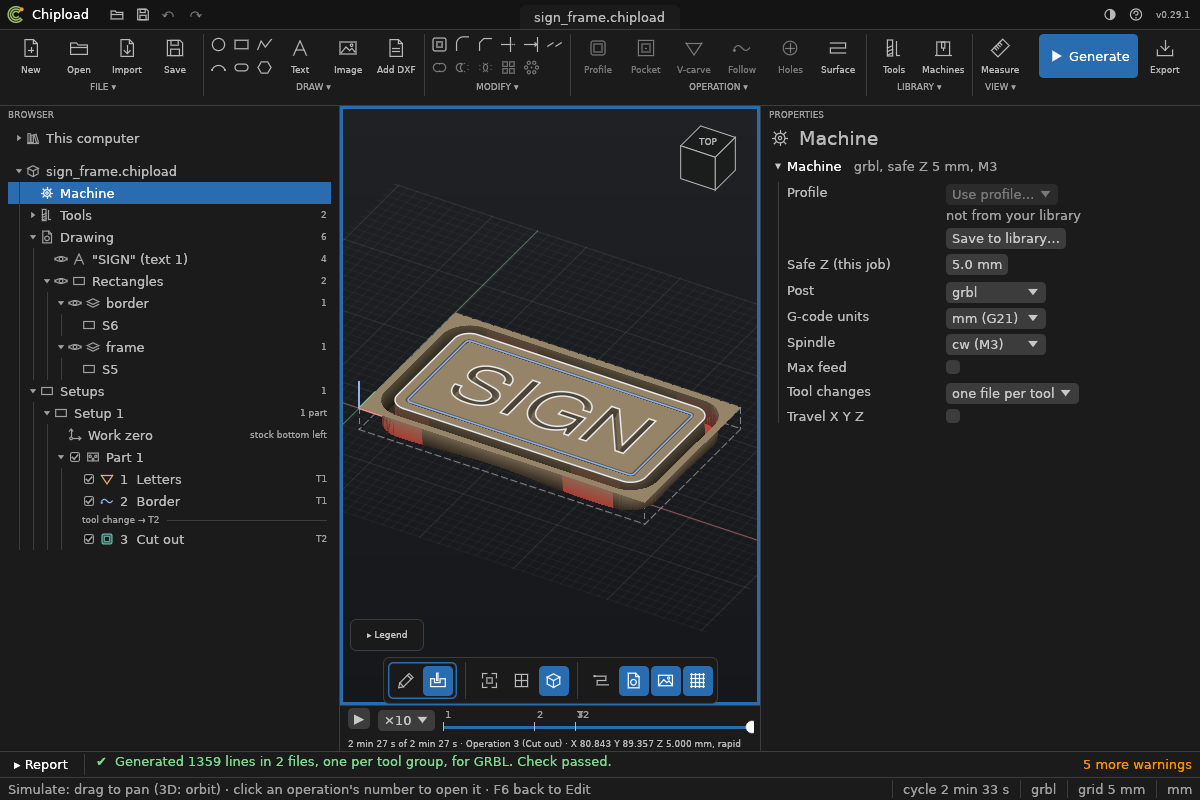
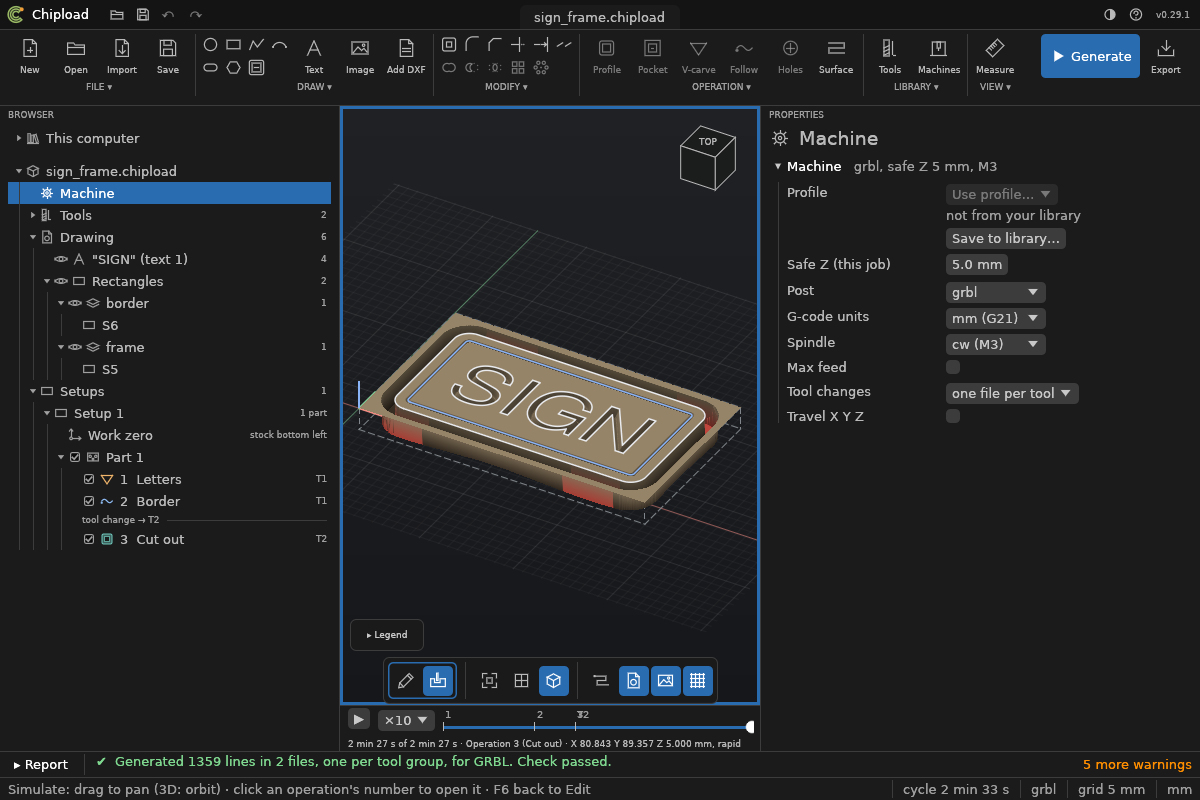
Frame button in the ribbon's DRAW group
The user: the frame was only in the DRAW ▾ menu. A small Frame button
now follows the shape tools, four to a row. To keep the button names in
English at the default window width, the large buttons' narrowest width
goes from 46 to 44 points (the ribbon had 13 points to spare; now 20).
Guide: signs and window pages; the frame and sign pictures renewed.

diff --git a/crates/chipload-gui/src/app/header.rs b/crates/chipload-gui/src/app/header.rs
@@ -12,7 +12,7 @@ use crate::icons::{self, Icon};
 /// The top bar's height, points.
 pub(super) const TOP_BAR_HEIGHT: f32 = 30.0;
 /// A ribbon button's height, and its narrowest width, points.
-const RIBBON_BUTTON: (f32, f32) = (44.0, 46.0);
+const RIBBON_BUTTON: (f32, f32) = (44.0, 44.0);
 /// Where the ribbon keeps whether its large buttons show their icons alone (they don't fit
 /// with their names).
 const RIBBON_COMPACT: &str = "ribbon-compact";
@@ -399,7 +399,10 @@ impl ChiploadApp {
                 ];
                 ui.vertical(|ui| {
                     ui.spacing_mut().item_spacing = vec2(2.0, 2.0);
-                    for row in tools.chunks(3) {
+                    // Four a row, the frame last (docs/specs/shape-library.md §5): a small
+                    // button, so the ribbon keeps its names at the default width.
+                    let rows = tools.chunks(4).count();
+                    for (k, row) in tools.chunks(4).enumerate() {
                         ui.horizontal(|ui| {
                             for (tool, icon, label, hint, action) in row {
                                 let active = app.sketch.as_ref().is_some_and(|s| s.tool == *tool);
@@ -409,6 +412,17 @@ impl ChiploadApp {
                                     .clicked()
                                 {
                                     app.start_drawing(*tool);
+                                }
+                            }
+                            if k + 1 == rows {
+                                let label = t!(ui, "header-frame");
+                                let framing = app.modify == Some(super::modify::ModifyTool::Frame);
+                                let hint = format!("{label}: {}", t!(ui, "header-frame-hover"));
+                                if small_ribbon_button(ui, Icon::Frame, &label, can_draw, framing)
+                                    .on_hover_text(hint)
+                                    .clicked()
+                                {
+                                    app.start_frame();
                                 }
                             }
                         });

diff --git a/crates/chipload-gui/src/icons.rs b/crates/chipload-gui/src/icons.rs
@@ -21,6 +21,8 @@ pub enum Icon {
     Layer,
     Image,
     Text,
+    /// A sign's frame: a rounded outline, a border line, words.
+    Frame,
     Circle,
     Rectangle,
     Polyline,
@@ -164,6 +166,11 @@ pub fn paint(painter: &Painter, rect: Rect, icon: Icon, color: Color32) {
         Icon::Text => {
             pen.poly(&[(0.18, 0.86), (0.5, 0.14), (0.82, 0.86)]);
             pen.poly(&[(0.31, 0.6), (0.69, 0.6)]);
+        }
+        Icon::Frame => {
+            pen.rounded((0.5, 0.5), 0.42, 0.12);
+            pen.closed(&[(0.24, 0.24), (0.76, 0.24), (0.76, 0.76), (0.24, 0.76)]);
+            pen.poly(&[(0.37, 0.5), (0.63, 0.5)]);
         }
         Icon::Circle => pen.circle((0.5, 0.5), 0.36),
         Icon::Rectangle => pen.closed(&[(0.12, 0.25), (0.88, 0.25), (0.88, 0.75), (0.12, 0.75)]),

diff --git a/docs/book/src/window.md b/docs/book/src/window.md
@@ -20,7 +20,7 @@ Under it, the **ribbon** groups the buttons:
 | Group | Buttons | Its caption's menu also has |
 |---|---|---|
 | FILE | New, Open, Import (a DXF as a new project), Save | open recent, save as, update drawing, export, the *…from path* items, undo, redo, quit |
-| DRAW | the shape tools as small buttons (Circle, Rectangle, Polyline, Arc, Slot, Polygon: hover for the name and key), Text, Image, Add DXF | Frame… ([a frame for a sign](drawings/signs.md)); copy, paste, mirror and delete drawn shapes; copy as selector |
+| DRAW | the shape tools as small buttons (Circle, Rectangle, Polyline, Arc, Slot, Polygon: hover for the name and key) and Frame ([a frame for a sign](drawings/signs.md)), Text, Image, Add DXF | Frame… ([a frame for a sign](drawings/signs.md)); copy, paste, mirror and delete drawn shapes; copy as selector |
 | MODIFY | small buttons: Offset, Fillet, Chamfer, Trim, Extend, Break, Union, Subtract, Intersect, Array, Polar array ([Editing operations](drawings/shapes.md#editing-operations)) | the same |
 | OPERATION | Profile, Pocket, V-carve, Follow, Holes (for the selected shapes), Surface (the whole stock) | Generate |
 | LIBRARY | Tools, Machines: open them under *This computer* in the Browser | the same |

diff --git a/docs/specs/shape-library.md b/docs/specs/shape-library.md
@@ -14,6 +14,10 @@ As built (frames):
   values under *Selection* with the frames as small pictures, a live preview on the canvas,
   *Add* and *Cancel*. Clicks while it is open change what it goes round; with nothing
   selected it draws to a size, centred on the stock. After *Add* the frame is selected.
+  It is a small **Frame** button after the shape tools in the ribbon's DRAW group, now four
+  to a row (the user, 2026-10-31: it was only in the DRAW ▾ menu); the large buttons'
+  narrowest width went from 46 to 44 points so that English keeps its names at the
+  default window width.
 - A frame round a box grows **just enough**, found by halving (`fit_round`): equally in
   both directions for the rectangular frames, in proportion for the oval, in height for the
   arched top, along the long side for the plaque. The arched top's box corners rest on its

diff --git a/docs/book/src/drawings/signs.md b/docs/book/src/drawings/signs.md
@@ -10,8 +10,9 @@ border lines inside it, or to a size as a blank. (Design: `docs/specs/shape-libr
 
 1. Write the text ([Text](text.md)) and leave it selected, or select any shapes: the frame
    goes round all of them.
-2. **Draw > Frame…** (in the ribbon's *DRAW* menu). Its values open under *Selection*, and
-   the frame shows on the canvas as you change them.
+2. **Frame**: the small button after the shape tools in the ribbon's *DRAW* group (a
+   rounded frame with a line inside), or *DRAW ▾ > Frame…*. Its values open under
+   *Selection*, and the frame shows on the canvas as you change them.
 3. Pick a frame from the row of pictures, set the values, and click **Add**. The frame is
    added as one undo step, and its shapes are selected.
 
